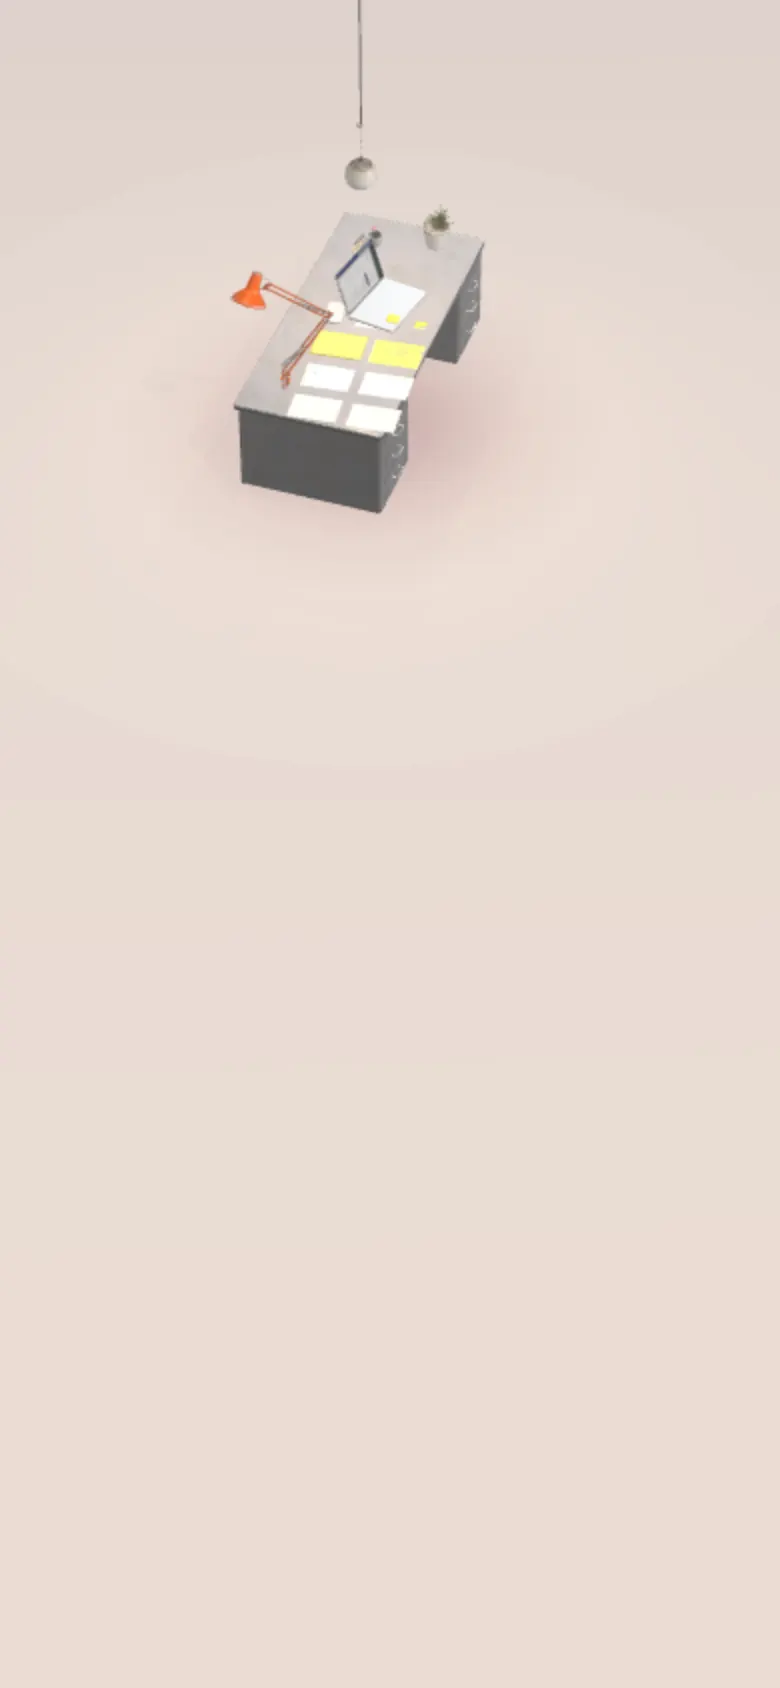
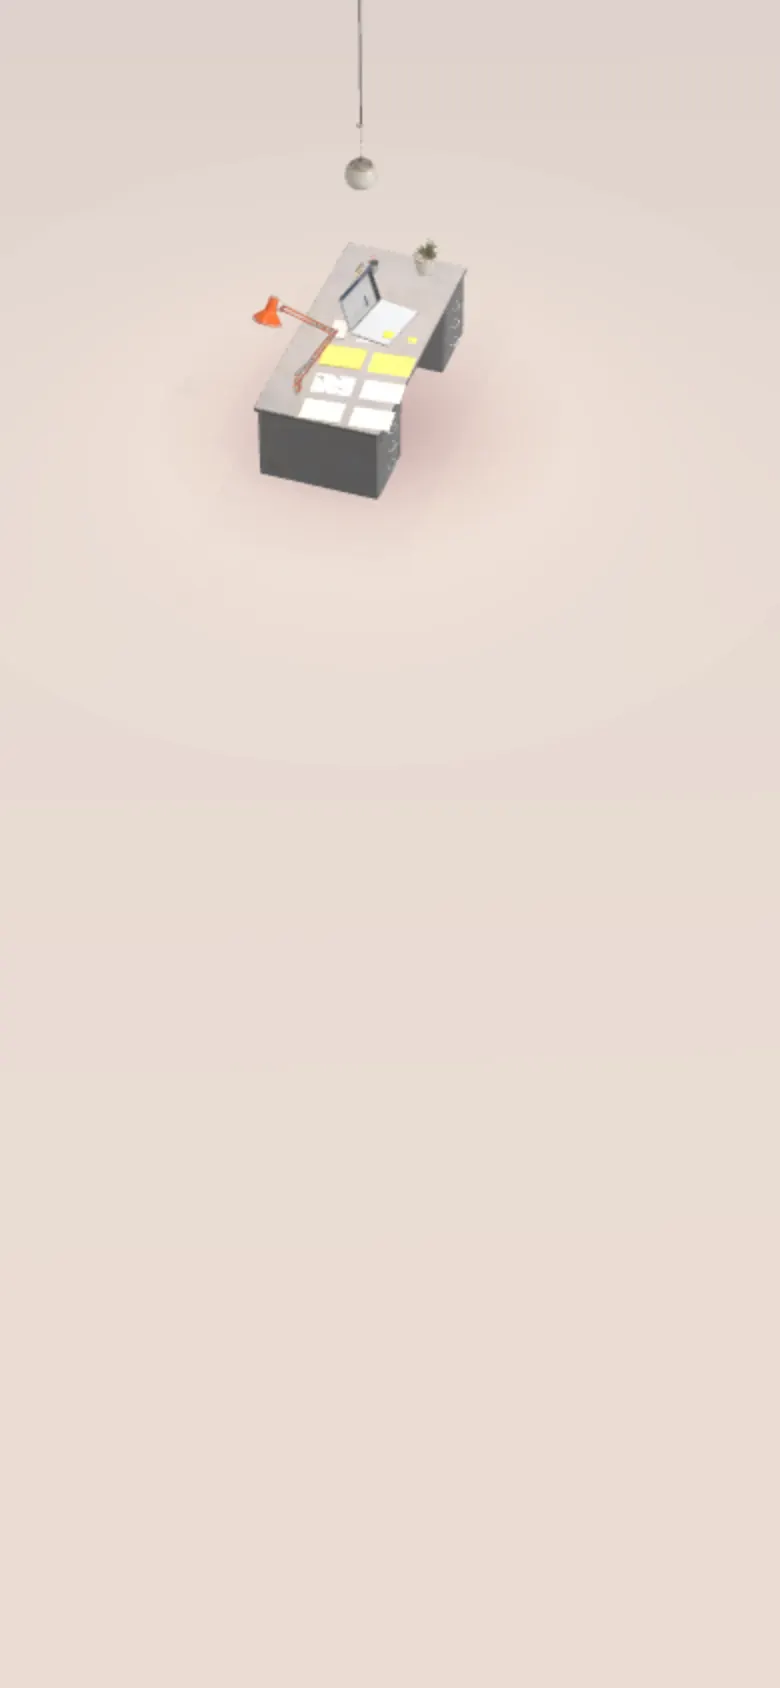
Opening view: learning desk larger (0.78), ERP desk trimmed (0.85); still regenerated

Changed region(s): [[0.3077, 0.1232, 0.6154, 0.3081]]

diff --git a/src/three/stations.ts b/src/three/stations.ts
@@ -71,6 +71,7 @@ export const STATIONS: Station[] = [
       { dev: 'laptop', on: 'desk', x: 0.18, z: 0.04, ry: -0.18, s: 1.4 },
     ],
     shot: { az: -0.35, dist: 6.4, height: 2.4, look: 1.08, layout: 'a' },
+    heroScale: 0.85,
   },
   {
     // Logistics: labelled cartons on a pallet, a pallet truck, stacked totes, and a tablet tracking shipments
@@ -153,7 +154,7 @@ export const STATIONS: Station[] = [
       { file: 'binder_notebook', on: 'desk', x: 0.12, z: 0.18, ry: 0.15, s: 0.55 },
     ],
     shot: { az: 0.3, dist: 10.5, height: 4.2, look: 0.8, layout: 'b' },
-    heroScale: 0.6,
+    heroScale: 0.78,
   },
   {
     // Your next system: a blueprint that keeps building itself
